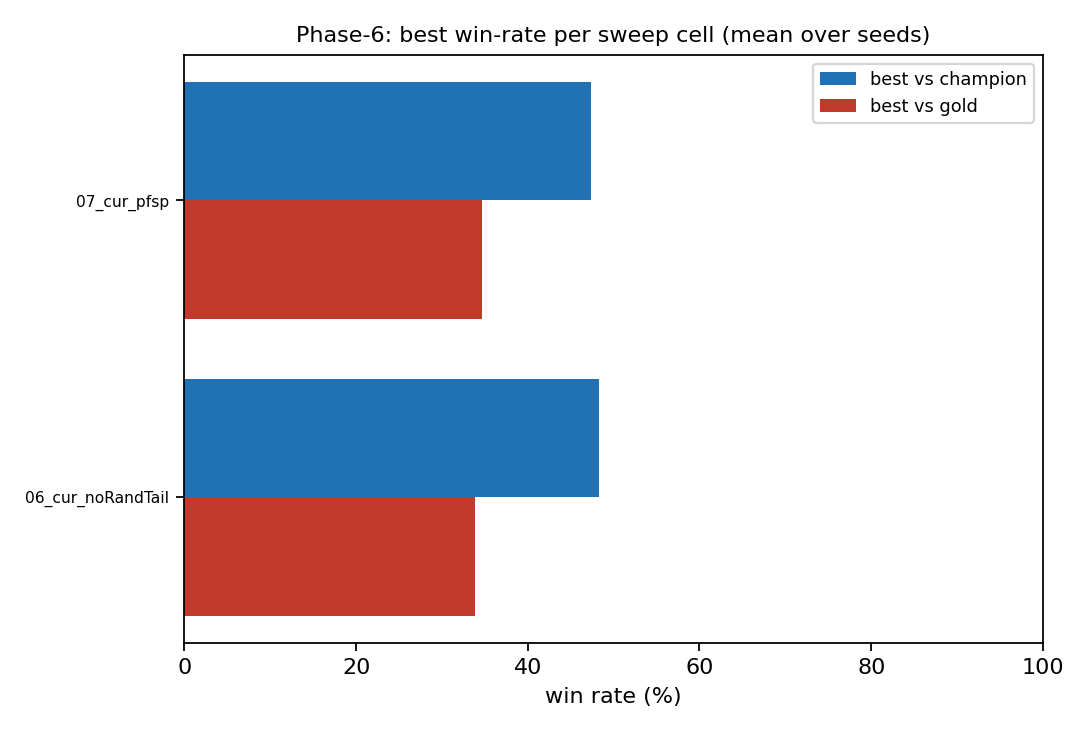
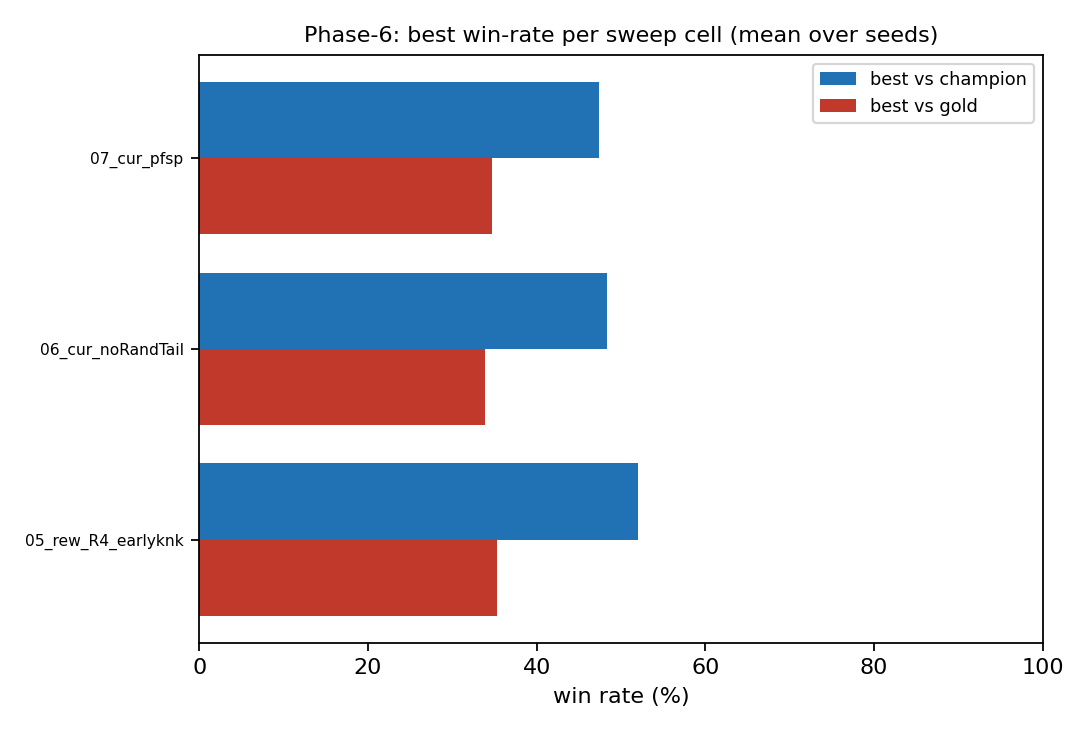
Phase-6 sweep: curriculum/algorithm/reward results + docs (2026-06-05T07:36Z)

diff --git a/docs/index.html b/docs/index.html
@@ -398,7 +398,8 @@ ol li,ul li{margin:4px 0;}
   currently lose to more often).</p>
 
   <figure class="fig" style="max-width:560px;margin:0 auto;"><img src="https://raw.githubusercontent.com/Nikelroid/adversarial-coevolution/main/paper/figures/curriculum.png" alt="Phase-6 sweep" loading="lazy"/><figcaption>Best win-rate per cell (mean over seeds); fills in as runs land.</figcaption></figure>
-  <p>Top cells by win-rate vs the gold standard (4 shown):</p><table><tr><th>cell</th><th>algo</th><th>curriculum</th><th class="n">vs random</th><th class="n">vs champion</th><th class="n">vs gold</th><th class="n">gin% vs gold</th></tr><tr><td>06_cur_noRandTail_s2</td><td>trpo</td><td>no_random_tail</td><td class="n">98.8</td><td class="n">46.0</td><td class="n"><b>32.8</b></td><td class="n">0.50</td></tr>
+  <p>Top cells by win-rate vs the gold standard (5 shown):</p><table><tr><th>cell</th><th>algo</th><th>curriculum</th><th class="n">vs random</th><th class="n">vs champion</th><th class="n">vs gold</th><th class="n">gin% vs gold</th></tr><tr><td>05_rew_R4_earlyknk_s1</td><td>trpo</td><td>designed</td><td class="n">98.8</td><td class="n">49.4</td><td class="n"><b>32.8</b></td><td class="n">0.30</td></tr>
+<tr><td>06_cur_noRandTail_s2</td><td>trpo</td><td>no_random_tail</td><td class="n">98.8</td><td class="n">46.0</td><td class="n"><b>32.8</b></td><td class="n">0.50</td></tr>
 <tr><td>06_cur_noRandTail_s1</td><td>trpo</td><td>no_random_tail</td><td class="n">98.4</td><td class="n">48.2</td><td class="n"><b>31.5</b></td><td class="n">0.40</td></tr>
 <tr><td>06_cur_noRandTail_s0</td><td>trpo</td><td>no_random_tail</td><td class="n">98.1</td><td class="n">45.0</td><td class="n"><b>31.4</b></td><td class="n">0.40</td></tr>
 <tr><td>07_cur_pfsp_s0</td><td>trpo</td><td>designed</td><td class="n">98.8</td><td class="n">44.5</td><td class="n"><b>29.5</b></td><td class="n">0.30</td></tr></table>